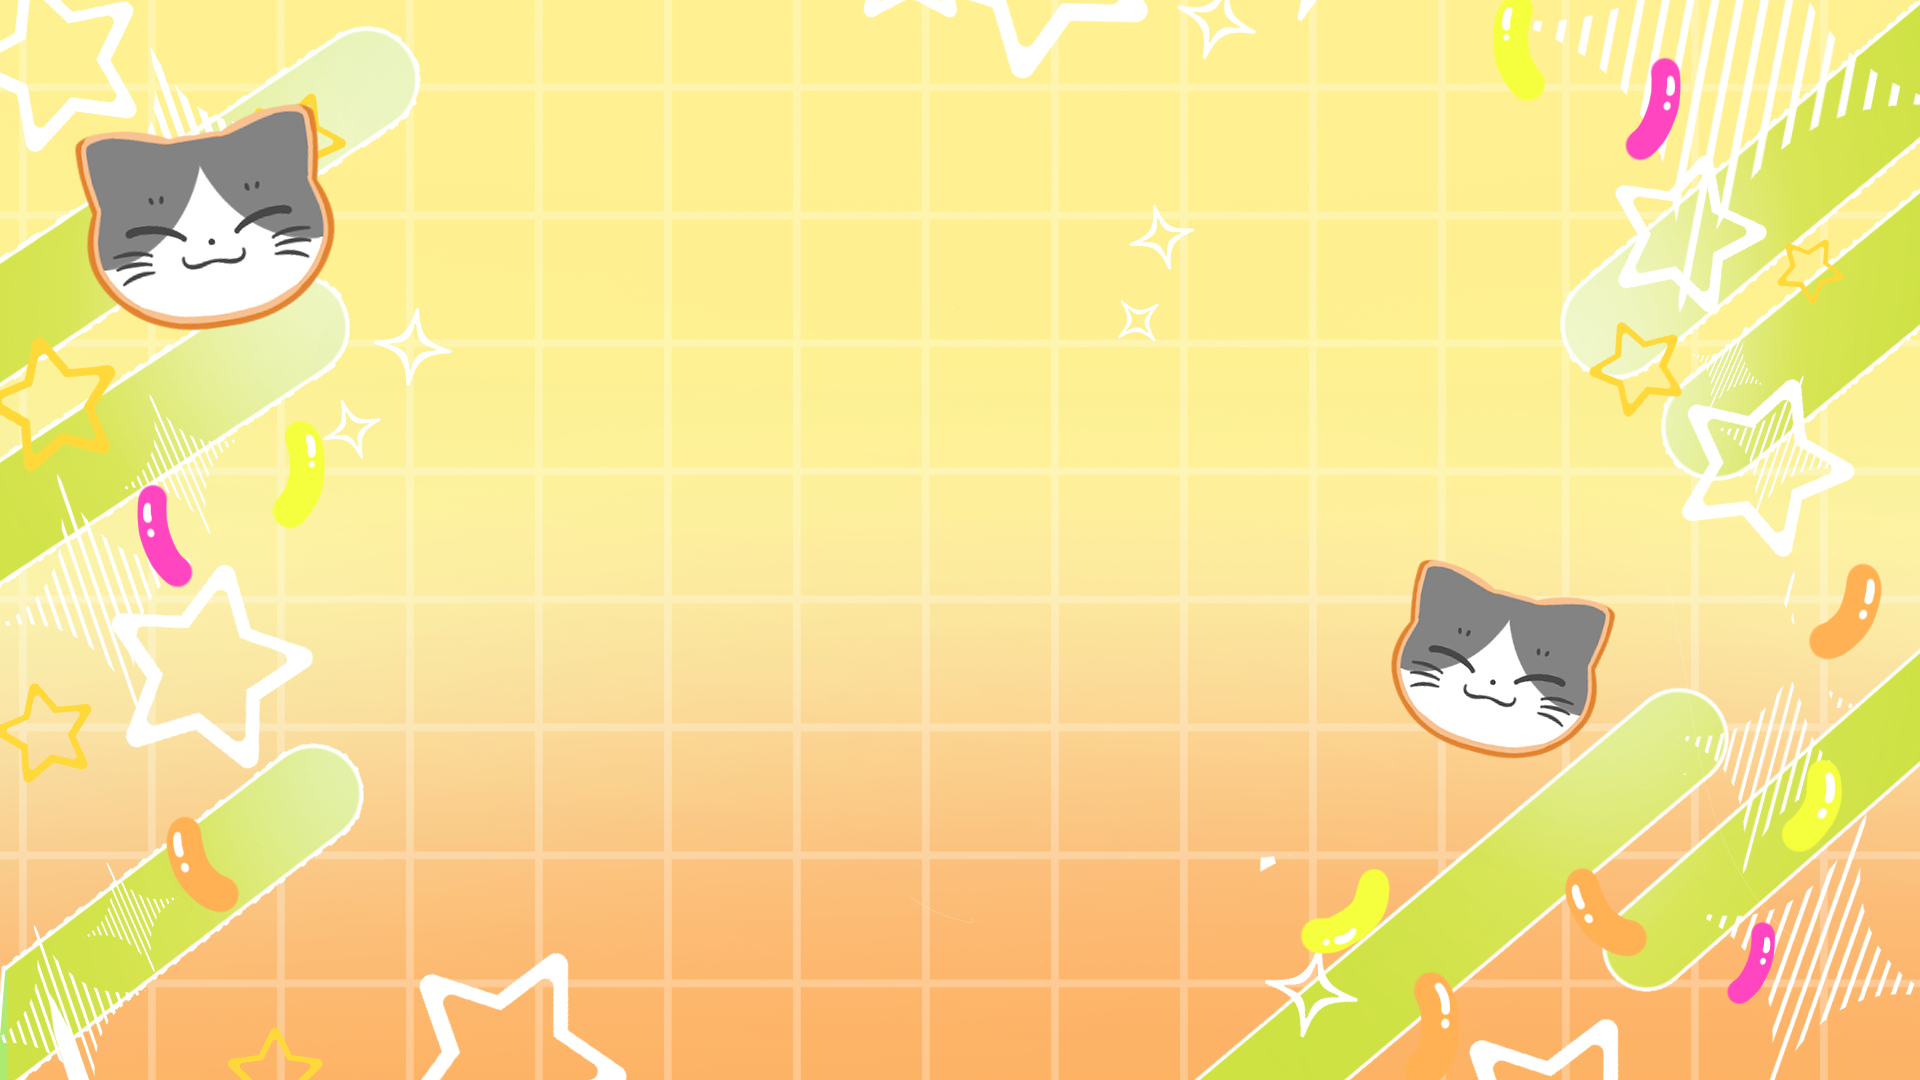
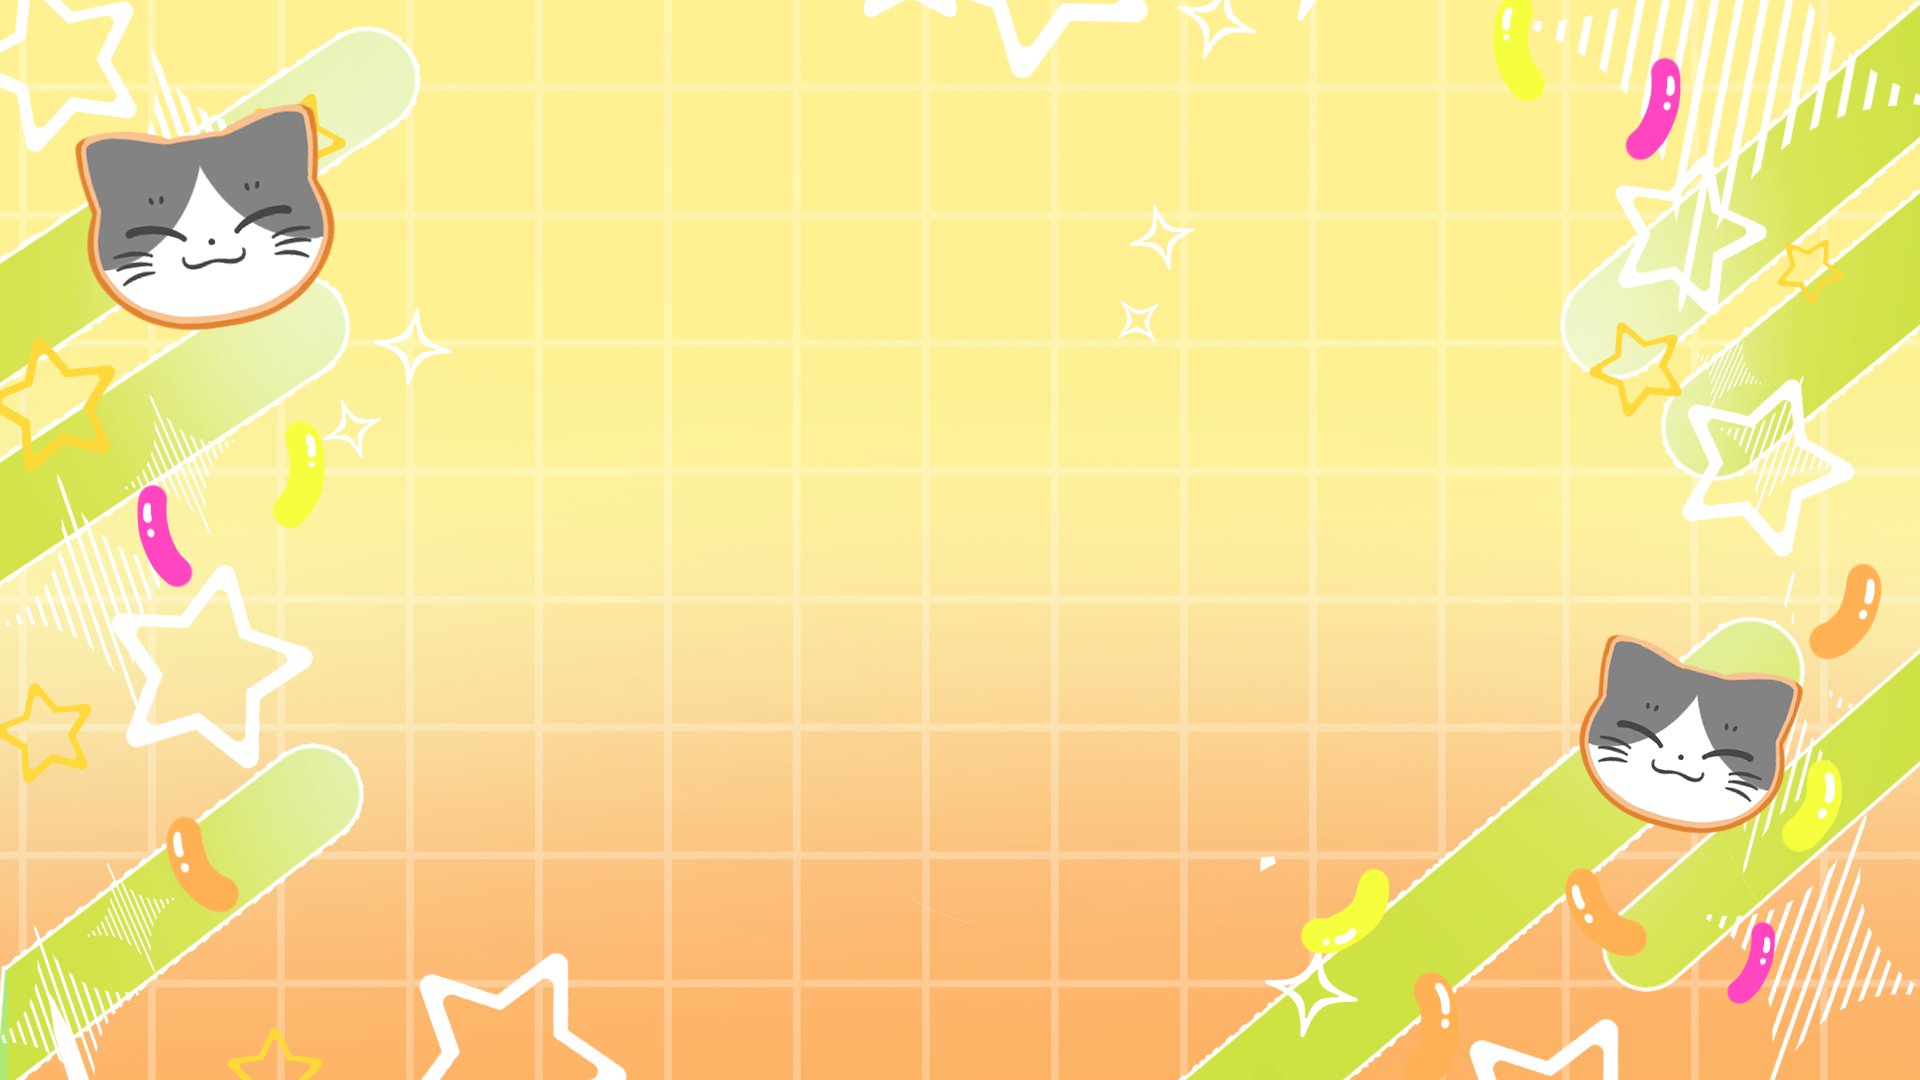
メインch: ヒーローをポップ化(Mochiy Pop+オレンジ)・代表動画登場と同時に稲妻/星エフェクト・説明boxを濃く・背景差し替え

Changed region(s): [[0.7188, 0.5194, 0.9375, 0.8556], [0.6562, 0.8556, 0.7188, 0.9472], [0.5938, 0.9472, 0.6562, 1.0]]

diff --git a/channel-main.html b/channel-main.html
@@ -17,9 +17,9 @@
 .ch-detail > *{position:relative;z-index:1;}
 .ch-detail-inner{max-width:1200px;margin:0 auto;width:100%;flex:1;display:flex;flex-direction:column;}
 .ch-detail-header{display:grid;grid-template-columns:1fr max-content;gap:40px;margin-bottom:40px;align-items:end;}
-.ch-detail-category{font-size:var(--cat-fs,18px);font-weight:400;color:#1a1a1a;letter-spacing:var(--cat-ls,5px);margin-bottom:6px;font-family:'KeiFont','Mochiy Pop One','Hiragino Kaku Gothic Pro',sans-serif;text-shadow:2px 0 0 #fff,-2px 0 0 #fff,0 2px 0 #fff,0 -2px 0 #fff,1.5px 1.5px 0 #fff,-1.5px -1.5px 0 #fff,1.5px -1.5px 0 #fff,-1.5px 1.5px 0 #fff;}
-.ch-detail-name{font-size:var(--name-fs,48px);font-weight:400;color:#1a1a1a;letter-spacing:var(--name-ls,7px);line-height:1.2;font-family:'AkazukinPOP','Mochiy Pop One','Hiragino Kaku Gothic Pro',sans-serif;padding-left:var(--name-pl,40px);text-shadow:3px 0 0 #fff,-3px 0 0 #fff,0 3px 0 #fff,0 -3px 0 #fff,2px 2px 0 #fff,-2px -2px 0 #fff,2px -2px 0 #fff,-2px 2px 0 #fff;}
-.ch-detail-desc{font-size:var(--desc-fs,16px);line-height:1.8;color:#1a1a1a;font-weight:400;letter-spacing:var(--desc-ls,1px);padding:14px 18px;background:rgba(255,255,255,0.55);border-radius:8px;backdrop-filter:blur(2px);-webkit-backdrop-filter:blur(2px);font-family:'KeiFont','Mochiy Pop One','Hiragino Kaku Gothic Pro',sans-serif;white-space:nowrap;}
+.ch-detail-category{font-size:var(--cat-fs,18px);font-weight:400;color:#F5870E;letter-spacing:var(--cat-ls,5px);margin-bottom:6px;font-family:'Mochiy Pop One','Hiragino Kaku Gothic Pro',sans-serif;text-shadow:2px 0 0 #fff,-2px 0 0 #fff,0 2px 0 #fff,0 -2px 0 #fff,1.5px 1.5px 0 #fff,-1.5px -1.5px 0 #fff,1.5px -1.5px 0 #fff,-1.5px 1.5px 0 #fff;}
+.ch-detail-name{font-size:var(--name-fs,48px);font-weight:400;color:#F5870E;letter-spacing:var(--name-ls,7px);line-height:1.2;font-family:'Mochiy Pop One','Hiragino Kaku Gothic Pro',sans-serif;padding-left:var(--name-pl,40px);text-shadow:3px 0 0 #fff,-3px 0 0 #fff,0 3px 0 #fff,0 -3px 0 #fff,2px 2px 0 #fff,-2px -2px 0 #fff,2px -2px 0 #fff,-2px 2px 0 #fff;}
+.ch-detail-desc{font-size:var(--desc-fs,16px);line-height:1.8;color:#F5870E;font-weight:400;letter-spacing:var(--desc-ls,1px);padding:14px 18px;background:rgba(255,255,255,0.78);border-radius:8px;backdrop-filter:blur(2px);-webkit-backdrop-filter:blur(2px);font-family:'Mochiy Pop One','Hiragino Kaku Gothic Pro',sans-serif;white-space:nowrap;}
 .ch-detail-video{max-width:var(--video-w,680px);margin:0 auto 50px;width:100%;aspect-ratio:16/9;border-radius:10px;overflow:hidden;box-shadow:0 12px 32px rgba(0,0,0,0.45);position:relative;background:#000;}
 .ch-detail-video .video-thumb-poster{position:relative;width:100%;height:100%;cursor:pointer;background:#000;overflow:hidden;display:block;}
 .ch-detail-video .video-thumb-poster img{width:100%;height:100%;object-fit:cover;display:block;transition:transform 0.3s ease;}
@@ -73,6 +73,13 @@
 .ch-detail-footer{opacity:0;animation:popIn 0.4s cubic-bezier(0.34,1.56,0.64,1) 0.95s forwards;}
 @keyframes bgFadeIn{from{opacity:0;}to{opacity:1;}}
 @keyframes popIn{0%{opacity:0;transform:scale(0.6);}60%{opacity:1;transform:scale(1.08);}100%{opacity:1;transform:scale(1);}}
+/* 代表動画の登場と同時に 稲妻・星が飛び出す演出 */
+.ch-video-fx{position:relative;max-width:var(--video-w,680px);width:100%;margin:0 auto;}
+.ch-video-fx .ch-detail-video{margin-left:0;margin-right:0;z-index:1;}
+.ch-zap{position:absolute;inset:0;z-index:0;pointer-events:none;transform-origin:center;opacity:0;animation:chZapPop var(--zdur,1.9s) cubic-bezier(.34,1.56,.64,1) var(--zdelay,.72s) forwards;}
+.ch-zap .shp{position:absolute;}
+.ch-zap .shp svg{width:100%;height:100%;display:block;overflow:visible;}
+@keyframes chZapPop{0%{transform:scale(.35);opacity:0;}24%{transform:scale(1.06);opacity:1;}40%{transform:scale(1);opacity:1;}100%{opacity:0;transform:scale(1.05);}}
 
 /* === モバイル専用 調整変数（サルベド漫画 確定値） === */
 :root{
@@ -131,12 +138,12 @@ body{margin:0;padding:0;}
 /* === 代表作紹介セクション（テキスト） === */
 .ch-stories{background:#ffffff;padding:64px 24px 84px;}
 .ch-stories-inner{max-width:1000px;margin:0 auto;}
-.ch-stories-title{font-size:26px;color:#1a1a1a;text-align:center;letter-spacing:3px;margin:0 0 18px;font-family:'Mochiy Pop One','Hiragino Kaku Gothic Pro',sans-serif;}
+.ch-stories-title{font-size:26px;color:#0a7d74;text-align:center;letter-spacing:3px;margin:0 0 18px;font-family:'Mochiy Pop One','Hiragino Kaku Gothic Pro',sans-serif;}
 .ch-stories-lead{font-size:15px;line-height:2;color:#333;text-align:center;max-width:780px;margin:0 auto 46px;}
 .ch-stories-grid{display:grid;grid-template-columns:1fr 1fr;gap:24px;}
-.ch-story{background:#f7fbfb;border:1px solid #e3f1f0;border-radius:12px;padding:0 0 22px;overflow:hidden;box-shadow:0 4px 14px rgba(0,0,0,0.04);}
+.ch-story{background:#f7fbfb;border:3px solid #6FDFD6;border-radius:12px;padding:0 0 22px;overflow:hidden;box-shadow:0 6px 0 rgba(111,223,214,.35);}
 .ch-story-thumb{display:block;width:100%;aspect-ratio:16/9;object-fit:cover;background:#000;margin:0 0 16px;}
-.ch-story h3{font-size:17px;color:#0a3d3a;margin:0 24px 10px;line-height:1.55;font-family:'Mochiy Pop One','Hiragino Kaku Gothic Pro',sans-serif;}
+.ch-story h3{font-size:17px;color:#0a7d74;margin:0 24px 10px;line-height:1.55;font-family:'Mochiy Pop One','Hiragino Kaku Gothic Pro',sans-serif;}
 .ch-story p{font-size:14px;line-height:1.9;color:#333;margin:0 24px;}
 @media(max-width:760px){
   .ch-stories{padding:48px 18px 60px;}
@@ -179,7 +186,7 @@ footer{
 /* にゃんこ模様：年表＋代表作の共通ラッパーに地続きで敷く（横は画像1枚ぶん） */
 .ch-belowfold::before{content:'';position:absolute;inset:0;z-index:0;pointer-events:none;background-image:url('img/moyou-nyanko.png');background-repeat:repeat-y;background-size:100% auto;background-position:top center;opacity:0.25;}
 .ch-timeline-inner{position:relative;z-index:1;max-width:880px;margin:0 auto;}
-.ch-timeline-title{font-size:27px;color:#1a1a1a;text-align:center;letter-spacing:3px;margin:0 0 18px;font-family:'KeiFont','Mochiy Pop One','Hiragino Kaku Gothic Pro',sans-serif;text-shadow:0 2px 8px #fff,0 0 8px #fff;}
+.ch-timeline-title{font-size:27px;color:#0a7d74;text-align:center;letter-spacing:3px;margin:0 0 18px;font-family:'KeiFont','Mochiy Pop One','Hiragino Kaku Gothic Pro',sans-serif;text-shadow:0 2px 8px #fff,0 0 8px #fff;}
 .ch-timeline-lead{font-size:14px;line-height:2;color:#333;text-align:center;max-width:720px;margin:0 auto 50px;text-shadow:0 1px 6px #fff;}
 .tl{list-style:none;margin:0;padding:0;position:relative;}
 .tl::before{content:'';position:absolute;left:50%;top:4px;bottom:4px;border-left:4px dashed #6FDFD6;transform:translateX(-50%);-webkit-mask-image:linear-gradient(to bottom,#000 74%,transparent 100%);mask-image:linear-gradient(to bottom,#000 74%,transparent 100%);}
@@ -281,10 +288,13 @@ footer{
           <span class="desc-mb">テンポのいいラブコメディが中心の、<br>サルベド漫画のメインチャンネル！<br>サルベド語録はここからはじまった。</span>
         </p>
       </div>
-      <div class="ch-detail-video">
-        <div class="video-thumb-poster" data-id="oys9pZGfkvo">
-          <img src="https://i.ytimg.com/vi/oys9pZGfkvo/hqdefault.jpg" alt="サルベド漫画 代表動画">
-          <div class="video-play-btn">▶</div>
+      <div class="ch-video-fx">
+        <div class="ch-zap" id="chZap"></div>
+        <div class="ch-detail-video">
+          <div class="video-thumb-poster" data-id="oys9pZGfkvo">
+            <img src="https://i.ytimg.com/vi/oys9pZGfkvo/hqdefault.jpg" alt="サルベド漫画 代表動画">
+            <div class="video-play-btn">▶</div>
+          </div>
         </div>
       </div>
       <div class="ch-detail-footer">
@@ -399,6 +409,32 @@ document.querySelector(".nav-toggle")&&document.querySelector(".nav-toggle").add
 //     this.parentNode.replaceChild(iframe, this);
 //   });
 // });
+</script>
+
+<script>
+/* 代表動画の登場と同時に 稲妻・星を飛び出させる（固定配置・1回） */
+(function(){
+ var mk=document.getElementById('chZap');if(!mk)return;
+ function boltSVG(rot,fill){return '<svg viewBox="0 0 52 100" style="transform:rotate('+rot+'deg)"><path d="M32 2 L11 54 L25 54 L19 98 L42 44 L27 44 Z" fill="'+(fill||'#fff')+'" stroke="#fff" stroke-width="5" stroke-linejoin="round"/></svg>';}
+ function starSVG(fill,rot){var cx=50,cy=50,ro=46,ri=19,d='';for(var i=0;i<10;i++){var a=-Math.PI/2+i*Math.PI/5;var r=(i%2===0)?ro:ri;d+=(i===0?'M':'L')+(cx+Math.cos(a)*r).toFixed(1)+' '+(cy+Math.sin(a)*r).toFixed(1)+' ';}return '<svg viewBox="0 0 100 100" style="transform:rotate('+rot+'deg)"><path d="'+d+'Z" fill="'+fill+'" stroke="#fff" stroke-width="6" stroke-linejoin="round"/></svg>';}
+ var ITEMS=[
+  {lx:42.8, ly:-24.4, s:110, t:'b', c:'#6FDFD6', rot:-20},
+  {lx:106.2, ly:-10.4, s:112, t:'s', c:'#FDD854', rot:-8},
+  {lx:-14.3, ly:23.4, s:96, t:'s', c:'#FF6B9C', rot:-16},
+  {lx:116.0, ly:15.9, s:110, t:'b', c:'#FDC06F', rot:63},
+  {lx:-13.6, ly:80.6, s:132, t:'b', c:'#9D8DF1', rot:40},
+  {lx:111.4, ly:83.0, s:120, t:'s', c:'#FDC06F', rot:24}
+ ];
+ ITEMS.forEach(function(it,i){
+  var sz=it.s;
+  var inner=(it.t==='b')?boltSVG(it.rot||0,it.c):starSVG(it.c,it.rot||0);
+  var d=document.createElement('div');d.className='shp';
+  d.style.left='calc('+it.lx+'% - '+sz/2+'px)';
+  d.style.top='calc('+it.ly+'% - '+sz/2+'px)';
+  d.style.width=sz+'px';d.style.height=sz+'px';d.style.zIndex=20-i;
+  d.innerHTML=inner;mk.appendChild(d);
+ });
+})();
 </script>
 
 </body>
